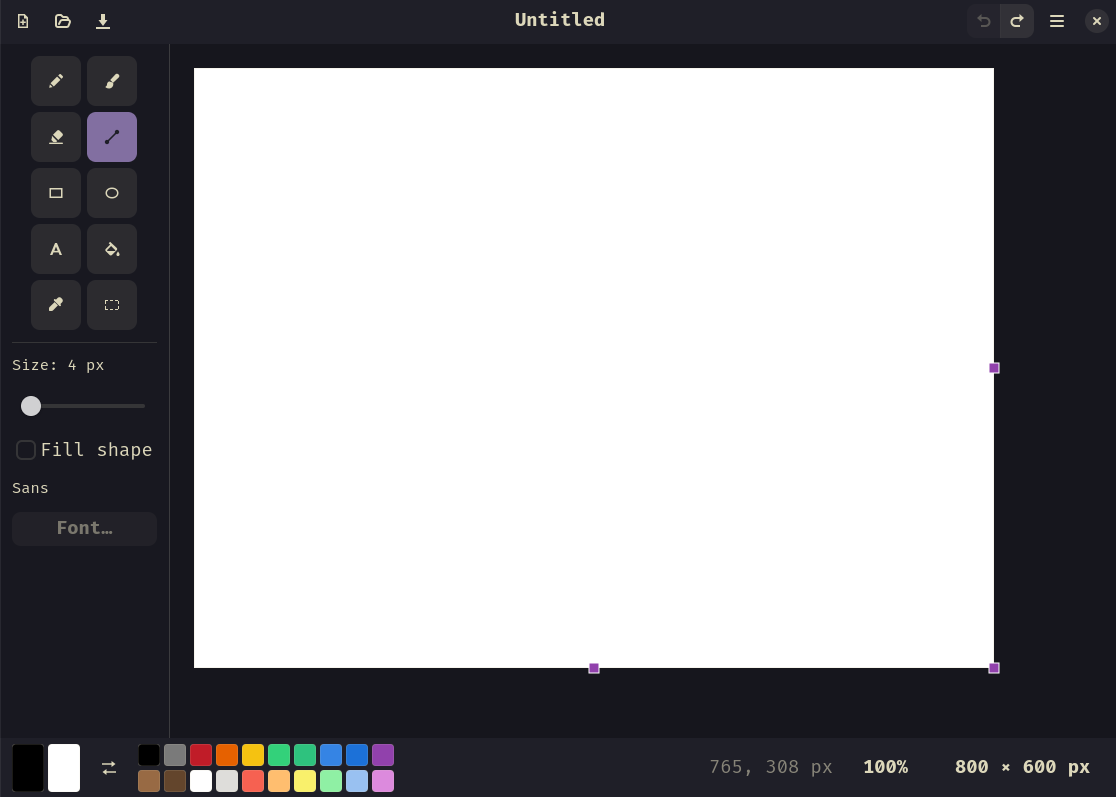
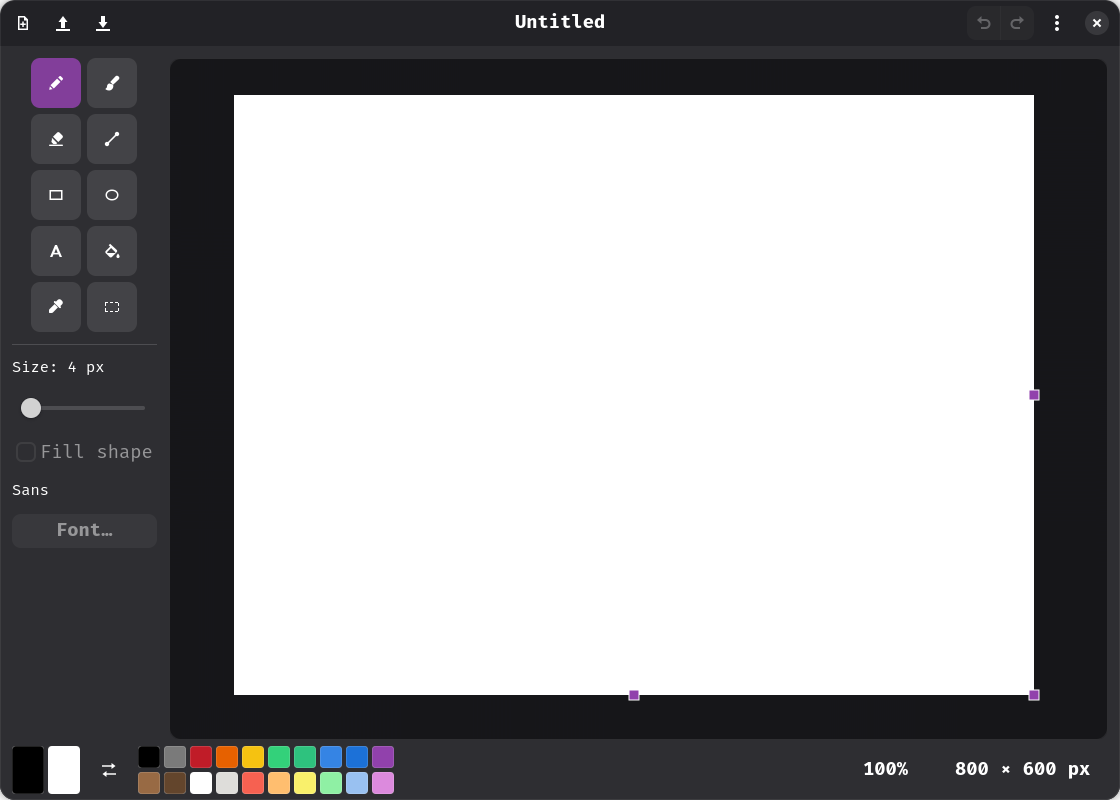
Frame the canvas as an inset card and put a left palette under the tools
The sidebars, palette strip and bottom bar now share the header's colour as
one frame, with the canvas area inset as a rounded, lightly shaded card, so
no separator lines end abruptly where they meet. A palette placed on the
left now sits under the tool options in the sidebar, five swatches wide,
and the sidebar scrolls when the window is too short for it all. The README
screenshot shows the new look.

diff --git a/data/style.css b/data/style.css
@@ -5,8 +5,17 @@
    comes from libadwaita's palette, so the app follows the system light/dark
    preference and accent colour automatically. Re-theming means editing this file. */
 
+/* The frame around the canvas: sidebars, palette strip and bottom bar share the
+   header's colour so the chrome reads as one surface. */
+.hue-chrome {
+  background-color: @headerbar_bg_color;
+}
+
+.hue-chrome:backdrop {
+  background-color: @headerbar_backdrop_color;
+}
+
 .hue-sidebar {
-  background-color: @sidebar_bg_color;
   padding: 12px;
 }
 
@@ -20,8 +29,21 @@
   color: @accent_fg_color;
 }
 
+/* The canvas area is a card inset in the frame. The sidebar's padding spaces
+   it on the left; its own margin does the right edge unless the palette strip
+   is there. */
 .hue-canvas-area {
+  /* Shaded so the card stands apart from the frame in light mode too, where
+     the header and view colours are both near white. */
   background-color: @view_bg_color;
+  background-image: linear-gradient(@shade_color, @shade_color);
+  border: 1px solid alpha(@view_fg_color, 0.08);
+  border-radius: 12px;
+  margin: 12px 12px 0 0;
+}
+
+.hue-canvas-area.hue-palette-beside {
+  margin-right: 0;
 }
 
 .hue-canvas {

diff --git a/hue/window.py b/hue/window.py
@@ -8,7 +8,7 @@ from gi.repository import Adw, Gdk, Gio, GLib, Gtk, Pango
 from . import APP_NAME, shortcuts
 from .canvas import Canvas, CanvasFrame
 from .clipboard import has_image, read_image, texture_from_surface
-from .color import ColorBar, ColorState
+from .color import ColorBar, ColorState, PaletteLayout
 from .document import DEFAULT_HEIGHT, DEFAULT_WIDTH, MAX_SIZE, Document, new_surface
 from .file_io import (
     format_for,
@@ -76,10 +76,18 @@ class HueWindow(Adw.ApplicationWindow):
         # Where the palette can go: position -> (slot it sits in, strip to show).
         self._palette_slots: dict[str, tuple[Gtk.Box, Gtk.Box | None]] = {}
 
+        # The sidebars and bottom bar sit in one frame with the header's colour,
+        # and the canvas is inset in it as a card, so no separator lines are
+        # needed where they meet. The bottom bar is part of the content rather
+        # than a toolbar-view bar, which would paint it a colour of its own.
+        chrome = Gtk.Box(orientation=Gtk.Orientation.VERTICAL)
+        chrome.add_css_class("hue-chrome")
+        chrome.append(self._build_content())
+        chrome.append(self._build_bottom_bar())
+
         toolbars = Adw.ToolbarView()
         toolbars.add_top_bar(self._build_header())
-        toolbars.add_bottom_bar(self._build_bottom_bar())
-        toolbars.set_content(self._build_content())
+        toolbars.set_content(chrome)
         self._place_palette(load_palette_position())
 
         self.toasts.set_child(toolbars)
@@ -204,32 +212,24 @@ class HueWindow(Adw.ApplicationWindow):
     def _build_content(self) -> Gtk.Widget:
         content = Gtk.Box(orientation=Gtk.Orientation.HORIZONTAL)
         content.append(self._build_sidebar())
-        content.append(Gtk.Separator(orientation=Gtk.Orientation.VERTICAL))
 
-        left_slot, left_strip = self._build_palette_strip(separator_first=False)
-        content.append(left_strip)
+        self._canvas_card = Gtk.ScrolledWindow(hexpand=True, vexpand=True)
+        self._canvas_card.add_css_class("hue-canvas-area")
+        self._canvas_card.set_child(CanvasFrame(self.canvas))
+        content.append(self._canvas_card)
 
-        scrolled = Gtk.ScrolledWindow(hexpand=True, vexpand=True)
-        scrolled.add_css_class("hue-canvas-area")
-        scrolled.set_child(CanvasFrame(self.canvas))
-        content.append(scrolled)
-
-        right_slot, right_strip = self._build_palette_strip(separator_first=True)
+        right_strip = self._build_palette_strip()
         content.append(right_strip)
 
-        self._palette_slots["left"] = (left_slot, left_strip)
-        self._palette_slots["right"] = (right_slot, right_strip)
+        # The strip is both the slot the palette sits in and what gets shown.
+        self._palette_slots["right"] = (right_strip, right_strip)
         return content
 
-    def _build_palette_strip(self, separator_first: bool) -> tuple[Gtk.Box, Gtk.Box]:
-        """A column beside the canvas for the palette, hidden while it is elsewhere."""
-        slot = Gtk.Box()
-        slot.add_css_class("hue-sidebar")
-        separator = Gtk.Separator(orientation=Gtk.Orientation.VERTICAL)
-        strip = Gtk.Box(orientation=Gtk.Orientation.HORIZONTAL, visible=False)
-        for child in (separator, slot) if separator_first else (slot, separator):
-            strip.append(child)
-        return slot, strip
+    def _build_palette_strip(self) -> Gtk.Box:
+        """A column right of the canvas for the palette, hidden while it is elsewhere."""
+        strip = Gtk.Box(visible=False)
+        strip.add_css_class("hue-sidebar")
+        return strip
 
     def _build_sidebar(self) -> Gtk.Widget:
         sidebar = Gtk.Box(orientation=Gtk.Orientation.VERTICAL, spacing=12)
@@ -279,7 +279,23 @@ class HueWindow(Adw.ApplicationWindow):
         self._font_button.connect("clicked", self._choose_font)
         sidebar.append(self._font_button)
 
-        return sidebar
+        # The palette's place when it is on the left: under the tool options.
+        left_section = Gtk.Box(orientation=Gtk.Orientation.VERTICAL, spacing=12, visible=False)
+        left_section.append(Gtk.Separator(orientation=Gtk.Orientation.HORIZONTAL))
+        left_slot = Gtk.Box(halign=Gtk.Align.CENTER)
+        left_section.append(left_slot)
+        sidebar.append(left_section)
+        self._palette_slots["left"] = (left_slot, left_section)
+
+        # Scrolls rather than squeezing when the window is too short for it all,
+        # which the palette makes likelier.
+        scrolled = Gtk.ScrolledWindow(
+            hscrollbar_policy=Gtk.PolicyType.NEVER,
+            vscrollbar_policy=Gtk.PolicyType.AUTOMATIC,
+            propagate_natural_width=True,
+        )
+        scrolled.set_child(sidebar)
+        return scrolled
 
     # Actions
 
@@ -374,7 +390,18 @@ class HueWindow(Adw.ApplicationWindow):
                 strip.set_visible(name == position)
         slot, _strip = self._palette_slots[position]
         slot.append(self._color_bar)
-        self._color_bar.set_vertical(position != "bottom")
+        self._color_bar.set_layout(
+            {
+                "bottom": PaletteLayout.WIDE,
+                "left": PaletteLayout.BLOCK,
+                "right": PaletteLayout.NARROW,
+            }[position]
+        )
+        # The strip's padding already spaces the card from the right edge.
+        if position == "right":
+            self._canvas_card.add_css_class("hue-palette-beside")
+        else:
+            self._canvas_card.remove_css_class("hue-palette-beside")
         self._palette_position = position
 
     def _on_size_changed(self, scale: Gtk.Scale) -> None:

diff --git a/hue/color.py b/hue/color.py
@@ -102,6 +102,12 @@ class Swatch(Gtk.DrawingArea):
         cr.stroke()
 
 
+class PaletteLayout:
+    WIDE = "wide"  # a row along the bottom bar
+    NARROW = "narrow"  # a column beside the canvas
+    BLOCK = "block"  # a block under the tools in the sidebar
+
+
 class ColorBar(Gtk.Box):
     """Current colors, the fixed palette, and a custom color picker."""
 
@@ -120,13 +126,19 @@ class ColorBar(Gtk.Box):
         current.set_halign(Gtk.Align.CENTER)
         current.append(self._primary_swatch)
         current.append(self._secondary_swatch)
-        self.append(current)
 
         # The window gives it a tooltip naming the current shortcut.
         self.swap_button = Gtk.Button(icon_name="hue-swap-symbolic")
         self.swap_button.add_css_class("flat")
+        self.swap_button.set_halign(Gtk.Align.CENTER)
+        self.swap_button.set_valign(Gtk.Align.CENTER)
         self.swap_button.connect("clicked", lambda *_: colors.swap())
-        self.append(self.swap_button)
+
+        # The current colors and the swap button, side by side or stacked.
+        self._current_row = Gtk.Box(spacing=12, halign=Gtk.Align.CENTER)
+        self._current_row.append(current)
+        self._current_row.append(self.swap_button)
+        self.append(self._current_row)
 
         self._grid = Gtk.Grid(row_spacing=4, column_spacing=4)
         self._palette_swatches = []
@@ -137,25 +149,28 @@ class ColorBar(Gtk.Box):
             self._palette_swatches.append(swatch)
         self.append(self._grid)
 
-        self.set_vertical(False)
+        self.set_layout(PaletteLayout.WIDE)
         colors.connect("changed", self._sync)
 
-    def set_vertical(self, vertical: bool) -> None:
-        """Lay out as a wide strip for the bottom bar, or a tall one for a side of the canvas."""
-        self.set_orientation(Gtk.Orientation.VERTICAL if vertical else Gtk.Orientation.HORIZONTAL)
-        # A side strip brings its own padding, so only the bottom bar needs margins.
-        margin_x, margin_y = (0, 0) if vertical else (12, 6)
+    def set_layout(self, layout: str) -> None:
+        """Lay out for the bottom bar, a narrow strip beside the canvas, or the tool sidebar."""
+        wide = layout == PaletteLayout.WIDE
+        self.set_orientation(Gtk.Orientation.HORIZONTAL if wide else Gtk.Orientation.VERTICAL)
+        # A strip or the sidebar brings its own padding, so only the bottom bar needs margins.
+        margin_x, margin_y = (12, 6) if wide else (0, 0)
         self.set_margin_start(margin_x)
         self.set_margin_end(margin_x)
         self.set_margin_top(margin_y)
         self.set_margin_bottom(margin_y)
 
-        self.swap_button.set_halign(Gtk.Align.CENTER if vertical else Gtk.Align.FILL)
-        self.swap_button.set_valign(Gtk.Align.FILL if vertical else Gtk.Align.CENTER)
-        self._grid.set_halign(Gtk.Align.CENTER if vertical else Gtk.Align.FILL)
-        self._grid.set_valign(Gtk.Align.START if vertical else Gtk.Align.CENTER)
+        stacked = layout == PaletteLayout.NARROW
+        self._current_row.set_orientation(
+            Gtk.Orientation.VERTICAL if stacked else Gtk.Orientation.HORIZONTAL
+        )
+        self._grid.set_halign(Gtk.Align.FILL if wide else Gtk.Align.CENTER)
+        self._grid.set_valign(Gtk.Align.CENTER if wide else Gtk.Align.START)
 
-        columns = 2 if vertical else 10
+        columns = {PaletteLayout.WIDE: 10, PaletteLayout.NARROW: 2, PaletteLayout.BLOCK: 5}[layout]
         for swatch in self._palette_swatches:
             if swatch.get_parent() is not None:
                 self._grid.remove(swatch)

diff --git a/tests/test_window.py b/tests/test_window.py
@@ -85,6 +85,13 @@ def test_palette_moves_to_a_side_strip(window, position):
     assert visible == {position}
 
 
+@pytest.mark.parametrize("position, columns", [("bottom", 10), ("left", 5), ("right", 2)])
+def test_palette_grid_fits_where_it_is(window, position, columns):
+    window.activate_action("win.palette-position", GLib.Variant.new_string(position))
+    grid = window._color_bar._grid
+    assert max(grid.query_child(child)[0] for child in window._color_bar._palette_swatches) == columns - 1
+
+
 def test_palette_returns_to_the_bottom(window):
     window.activate_action("win.palette-position", GLib.Variant.new_string("left"))
     window.activate_action("win.palette-position", GLib.Variant.new_string("bottom"))

diff --git a/README.md b/README.md
@@ -141,8 +141,8 @@ also shows which image pixel the pointer is over.
 ## Moving the palette
 
 The colour palette sits in the bottom bar by default. **Palette Position** in the main
-menu moves it to a column on the left or right of the canvas instead, which leaves more
-height for the image on wide screens. The choice is remembered in
+menu moves it under the tools in the left sidebar, or to a column right of the canvas,
+which leaves more height for the image on wide screens. The choice is remembered in
 `~/.config/hue/settings.ini`.
 
 ## Resizing the canvas
@@ -236,7 +236,7 @@ gives the same pixels.
 
 libadwaita does the work: the app follows the system colour scheme and accent colour
 with no configuration. The only custom styling lives in `data/style.css`, written
-against libadwaita's named colours (`@accent_bg_color`, `@sidebar_bg_color`, …) rather
+against libadwaita's named colours (`@accent_bg_color`, `@headerbar_bg_color`, …) rather
 than fixed values, so re-theming the app means editing that one file. Tool icons are
 symbolic SVGs in `data/icons/`, so they recolour with the theme too.
 
